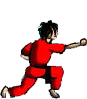
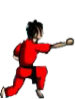
обновление от 10 января
код стал чище, (надеюсь) внесены последние правки в код анимаций, добавлены частицы вылетающие из противника.

diff --git a/name.py b/name.py
@@ -1,20 +1,21 @@
 import pygame
 import os
 import sys
+import random
 all_sprites = pygame.sprite.Group()
 all_spritess = pygame.sprite.Group()
 clock = pygame.time.Clock()
 pygame.init()
-size = width, height = 600, 500
+size = width, height = 1000, 500
 screen = pygame.display.set_mode(size)
 x1, y1, x2, y2 = 100, 100, 400, 100
 fps = 30
 col = (0, 0, 0)
-animCount1 = 0
-animCount2 = 0
-animCount = 0
 gg = 0
 activno = None
+otkat = 0
+screen_rect = (0, 0, width, height)
+GRAVITY = 2
 
 
 def zalypa(name, r):
@@ -52,6 +53,46 @@ def load_image(name, colorkey=None):
     return image
 
 
+class Particle(pygame.sprite.Sprite):
+    # сгенерируем частицы разного размера
+    firee = [load_image("star.png")]
+    fire = []
+    for scale in (10, 15):
+        fire.append(pygame.transform.scale(firee[0], (scale, scale)))
+
+    def __init__(self, pos, dx, dy):
+        super().__init__(all_sprites)
+        self.image = random.choice(self.fire)
+        self.rect = self.image.get_rect()
+
+        # у каждой частицы своя скорость — это вектор
+        self.velocity = [dx, dy]
+        # и свои координаты
+        self.rect.x, self.rect.y = pos
+
+        # гравитация будет одинаковой (значение константы)
+        self.gravity = GRAVITY
+
+    def update(self):
+        # применяем гравитационный эффект:
+        # движение с ускорением под действием гравитации
+        self.velocity[1] += self.gravity
+        # перемещаем частицу
+        self.rect.x += self.velocity[0]
+        self.rect.y += self.velocity[1]
+        # убиваем, если частица ушла за экран
+        if not self.rect.colliderect(screen_rect):
+            self.kill()
+
+def create_particles(position):
+    # количество создаваемых частиц
+    particle_count = 10
+    # возможные скорости
+    numbers = range(-1, 10)
+    for _ in range(particle_count):
+        Particle(position, random.choice(numbers), random.choice(numbers))
+
+
 class AnimatedSprite(pygame.sprite.Sprite):
     def __init__(self, sheet, columns, rows, x, y):
         super().__init__(all_spritess)
@@ -70,20 +111,20 @@ class AnimatedSprite(pygame.sprite.Sprite):
                 self.frames.append(sheet.subsurface(pygame.Rect(
                     frame_location, self.rect.size)))
 
-    def otris(self, reverse, kadrov):
-        global animCount, gg
+    def otris(self, reverse, kadrov, animCount):
+        global gg
         if animCount + 1 >= 30:
             animCount = 0
             gg = 0
-        if animCount // kadrov != gg:
-            if reverse:
-                gg = len(self.frames) - animCount // 5
-            else:
-                gg = animCount // 5
+        if reverse:
+            gg = len(self.frames) + -1 * animCount // kadrov
+        else:
+            if animCount // kadrov != gg:
+                gg = animCount // kadrov
         animCount += 1
         if gg > len(self.frames) - 1:
             gg = 0
-        return self.frames[gg]
+        return self.frames[gg], animCount
 
 
 class G_Player(pygame.sprite.Sprite):
@@ -100,7 +141,19 @@ class G_Player(pygame.sprite.Sprite):
         self.otkatjump = 0
         self.protivnik = None
         self.activno = None
-        self.ninjarun, self.ninjastay, self.ninjahm, self.ninjahh, self.ninjasit, self.ninjasithandmedium, self.ninjajump = razvorot(left)
+        self.left = left
+        self.animCount1 = 0
+        self.animCount = 0
+        self.run1, self.run2, self.handhigh, self.handmedium, self.runA_I, self.sitt, self.handmediumA_I, self.jump, self.activnosti = False, False, False, False, False, False, False, False, False
+        self.ninjarun, self.ninjastay, self.ninjahm, self.ninjahh, self.ninjasit, self.ninjasithandmedium, self.ninjajump = razvorot(self.left)
+
+    def obmen(self):
+        player1.ninjarun, player1.ninjastay, player1.ninjahm, player1.ninjahh, player1.ninjasit,\
+        player1.ninjasithandmedium, player1.ninjajump, player2.ninjarun, player2.ninjastay, player2.ninjahm,\
+        player2.ninjahh, player2.ninjasit, player2.ninjasithandmedium, player2.ninjajump = player2.ninjarun,\
+        player2.ninjastay, player2.ninjahm, player2.ninjahh, player2.ninjasit, player2.ninjasithandmedium,\
+        player2.ninjajump, player1.ninjarun, player1.ninjastay, player1.ninjahm, player1.ninjahh, player1.ninjasit,\
+        player1.ninjasithandmedium, player1.ninjajump
 
     def set_protivnik(self, protivnik):
         self.protivnik = protivnik
@@ -109,140 +162,163 @@ class G_Player(pygame.sprite.Sprite):
         global runA_I, handmediumA_I, otkat
         if otkat == 0:
             if 40 >= self.rect.x - player1.rect.x > 0:
-                player2.handmedium()
-                otkat = 30
-                player2.stay()
+                player2.player_handmedium()
         else:
             otkat -= 1
         if player1.rect.x + 30 < player2.rect.x:
-            player2.run(True)
+            player2.ninja_run(True)
         else:
-            player2.stay()
+            player2.ninja_stay()
 
-    def run(self, reverse):
-        self.image = self.ninjarun.otris(reverse, 5)
+    def ninja_run(self, reverse):
+        self.image, self.animCount = self.ninjarun.otris(reverse, 5, self.animCount)
         if reverse:
             self.rect = self.rect.move(-5, 0)
         else:
             self.rect = self.rect.move(5, 0)
 
-    def handmedium(self):
-        global animCount1, handmedium1
-        self.image = self.ninjahm.otris(False, 30)
-        if animCount1 >= 20:
-            handmedium1 = False
-            animCount1 = 0
-            player1.stay()
-        animCount1 += 1
+    def ninja_handmedium(self):
+        self.image, self.animCount = self.ninjahm.otris(False, 30, self.animCount)
+        if self.animCount1 >= 20:
+            self.handmedium = False
+            self.animCount1 = 0
+            self.ninja_stay()
+        self.animCount1 += 1
 
-    def handmhigh(self):
-        global animCount1, handmhigh1
+    def ninja_handmhigh(self):
+        self.image, self.animCount = self.ninjahh.otris(False, 30, self.animCount)
+        if self.animCount1 >= 20 or self.sitt:
+            self.handhigh = False
+            self.animCount1 = 0
+            self.ninja_stay()
+        self.animCount1 += 1
 
-        self.image = self.ninjahh.otris(False, 30)
-        if animCount1 >= 20:
-            handmhigh1 = False
-            animCount1 = 0
-            player1.stay()
-        animCount1 += 1
+    def ninja_sithandmedium(self):
+        self.image, self.animCount = self.ninjasithandmedium.otris(False, 30, self.animCount)
+        if self.animCount1 >= 20:
+            self.handmedium = False
+            self.animCount1 = 0
+            self.sitt = True
+            self.ninja_sit()
+        self.animCount1 += 1
 
-    def sithandmedium(self):
-        global animCount1, handmedium1
-        self.image = self.ninjasithandmedium.otris(False, 30)
-        if animCount1 >= 20:
-            handmedium1 = False
-            animCount1 = 0
-            player1.sit()
-        animCount1 += 1
+    def ninja_stay(self):
+        self.animCount = 0
+        self.image, self.animCount = self.ninjastay.otris(False, 30, self.animCount)
+        self.animCount = 0
+        self.activnosti = False
 
-    def stay(self):
-        global animCount, activnosti
-        animCount = 0
-        self.image = self.ninjastay.otris(False, 30)
-        animCount = 0
-        activnosti = False
+    def ninja_sit(self):
+        self.activnosti = True
+        self.image, self.animCount = self.ninjasit.otris(False, 30, self.animCount)
+        self.activnosti = True
 
-    def sit(self):
-        self.image = self.ninjasit.otris(False, 30)
-
-    def jump(self):
-        global animCount1, jump1, activnosti
-        self.image = self.ninjajump.otris(False, 6)
-        self.rect = self.rect.move(10, 0)
-        if animCount // 5 in [1, 2]:
+    def ninja_jump(self):
+        if self.left:
+            self.rect = self.rect.move(-10, 0)
+            self.image, self.animCount = self.ninjajump.otris(True, 6, self.animCount)
+        else:
+            self.rect = self.rect.move(10, 0)
+            self.image, self.animCount = self.ninjajump.otris(False, 6, self.animCount)
+        if self.animCount // 5 in [1, 2]:
             self.rect = self.rect.move(0, -10)
-        if animCount // 5 in [3, 4]:
+        if self.animCount // 5 in [3, 4]:
             self.rect = self.rect.move(0, 10)
-        if animCount1 + 1 >= 30:
-            jump1 = False
-            animCount1 = 0
-            player1.stay()
-            activnosti = False
-        animCount1 += 1
+        if self.animCount1 + 1 >= 30:
+            self.jump = False
+            self.animCount1 = 0
+            self.ninja_stay()
+            self.activnosti = False
+        self.animCount1 += 1
+
+    def player_jump(self):
+        self.animCount = 0
+        self.jump = True
+        self.activnosti = True
+        self.otkatjump = 120
+
+    def player_sit(self):
+        self.handhigh = False
+        self.sitt = True
+        self.jump = False
+        self.activnosti = True
+        self.otkat = 30
+        self.ninja_sit()
+
+    def player_handmedium(self):
+        self.animCount = 0
+        self.handmedium = True
+        self.activnosti = True
+        self.otkat = 50
+
+    def player_handhigh(self):
+        self.animCount = 0
+        self.handhigh = True
+        self.activnosti = True
+        self.otkat = 70
+
+    def player_dont_sit(self):
+        self.sitt = False
+        self.jump = False
+        self.handhigh = False
+        self.ninja_stay()
 
     def update(self):
-        global col, animCount1, animCount, handmedium1, handmhigh1, sit, run2, run1, jump1, activnosti, otkat, otkatjump
+        global col, otkat
+        if player1.rect.x > player2.rect.x and player1.left is False and player2.left is True:
+            player1.left = True
+            player2.left = False
+            self.obmen()
+        if player1.rect.x < player2.rect.x and player1.left is True and player2.left is False:
+            player1.left = False
+            player2.left = True
+            self.obmen()
         if event.type == pygame.KEYDOWN:
-            if event.key == pygame.K_LEFT and not activnosti:
-                player1.run(True)
-            if event.key == pygame.K_RIGHT and not activnosti:
-                player1.run(False)
+            if event.key == pygame.K_LEFT and not player1.activnosti:
+                player1.ninja_run(True)
+            if event.key == pygame.K_RIGHT and not player1.activnosti:
+                player1.ninja_run(False)
             if player1.otkat == 0:
-                if event.key == pygame.K_UP and not activnosti and player1.otkatjump == 0:
-                    animCount = 0
-                    jump1 = True
-                    activnosti = True
-                    player1.otkatjump = 120
-                if event.key == pygame.K_DOWN and not activnosti:
-                    player1.sit()
-                    sit = True
-                    jump1 = False
-                    activnosti = True
-                    player1.otkat = 30
-                if event.key == pygame.K_KP1 and not activnosti or event.key == pygame.K_KP1 and activnosti and sit:
-                    animCount = 0
-                    handmedium1 = True
-                    activnosti = True
-                    player1.otkat = 40
-                if event.key == pygame.K_KP3 and not activnosti:
-                    animCount = 0
-                    handmhigh1 = True
-                    activnosti = True
-                    player1.otkat = 50
+                if event.key == pygame.K_UP and not player1.activnosti and self.otkatjump == 0:
+                    player1.player_jump()
+                if event.key == pygame.K_DOWN and not player1.activnosti:
+                    player1.player_sit()
+                if event.key == pygame.K_KP1 and player1.activnosti and self.sitt or event.key == pygame.K_KP1 and not self.activnosti:
+                    player1.player_handmedium()
+                if event.key == pygame.K_KP3 and not player1.activnosti and not self.sitt:
+                    player1.player_handhigh()
         if player1.otkat > 0:
             player1.otkat -= 1
         if player1.otkatjump > 0:
             player1.otkatjump -= 1
         if event.type == pygame.KEYUP:
-            if event.key == pygame.K_LEFT and not activnosti:
-                player1.stay()
-            if event.key == pygame.K_RIGHT and not activnosti:
-                player1.stay()
+            if event.key == pygame.K_LEFT and not player1.activnosti:
+                player1.ninja_stay()
+            if event.key == pygame.K_RIGHT and not player1.activnosti:
+                player1.ninja_stay()
             if event.key == pygame.K_UP:
                 pass
             if event.key == pygame.K_DOWN:
-                player1.stay()
-                sit = False
-                jump1 = False
+                player1.player_dont_sit()
         if pygame.sprite.collide_mask(self, self.protivnik):
-            col = (255, 255, 255)
+            create_particles((self.protivnik.rect.x + 10, self.protivnik.rect.y))
         else:
             col = (0, 0, 0)
-        if sit:
-            if handmedium1:
-                player1.sithandmedium()
+        if self.sitt:
+            if self.handmedium:
+                self.ninja_sithandmedium()
             else:
-                player1.sit()
-        elif jump1:
-            player1.jump()
-        elif handmedium1:
-            player1.handmedium()
-        elif handmhigh1:
-            player1.handmhigh()
+                self.ninja_sit()
+        elif self.jump:
+            self.ninja_jump()
+        elif self.handmedium:
+            self.ninja_handmedium()
+        elif self.handhigh:
+            self.ninja_handmhigh()
         self.mask = pygame.mask.from_surface(self.image)
 
 
 if __name__ == '__main__':
-    run1, run2, handmhigh1, handmedium1, runA_I, sit, handmediumA_I, jump1, activnosti = False, False, False, False, False, False, False, False, False
     running = True
     player1, player2 = G_Player((x1, y1), False), G_Player((x2, y2), True)
     player1.set_protivnik(player2)
@@ -251,7 +327,10 @@ if __name__ == '__main__':
         for event in pygame.event.get():
             if event.type == pygame.QUIT:
                 running = False
-        # player2.A_I()
+            if event.type == pygame.MOUSEBUTTONDOWN:
+                # создаём частицы по щелчку мыши
+                create_particles(pygame.mouse.get_pos())
+        player2.A_I()
         all_sprites.update()
         screen.fill(col)
         all_sprites.draw(screen)
